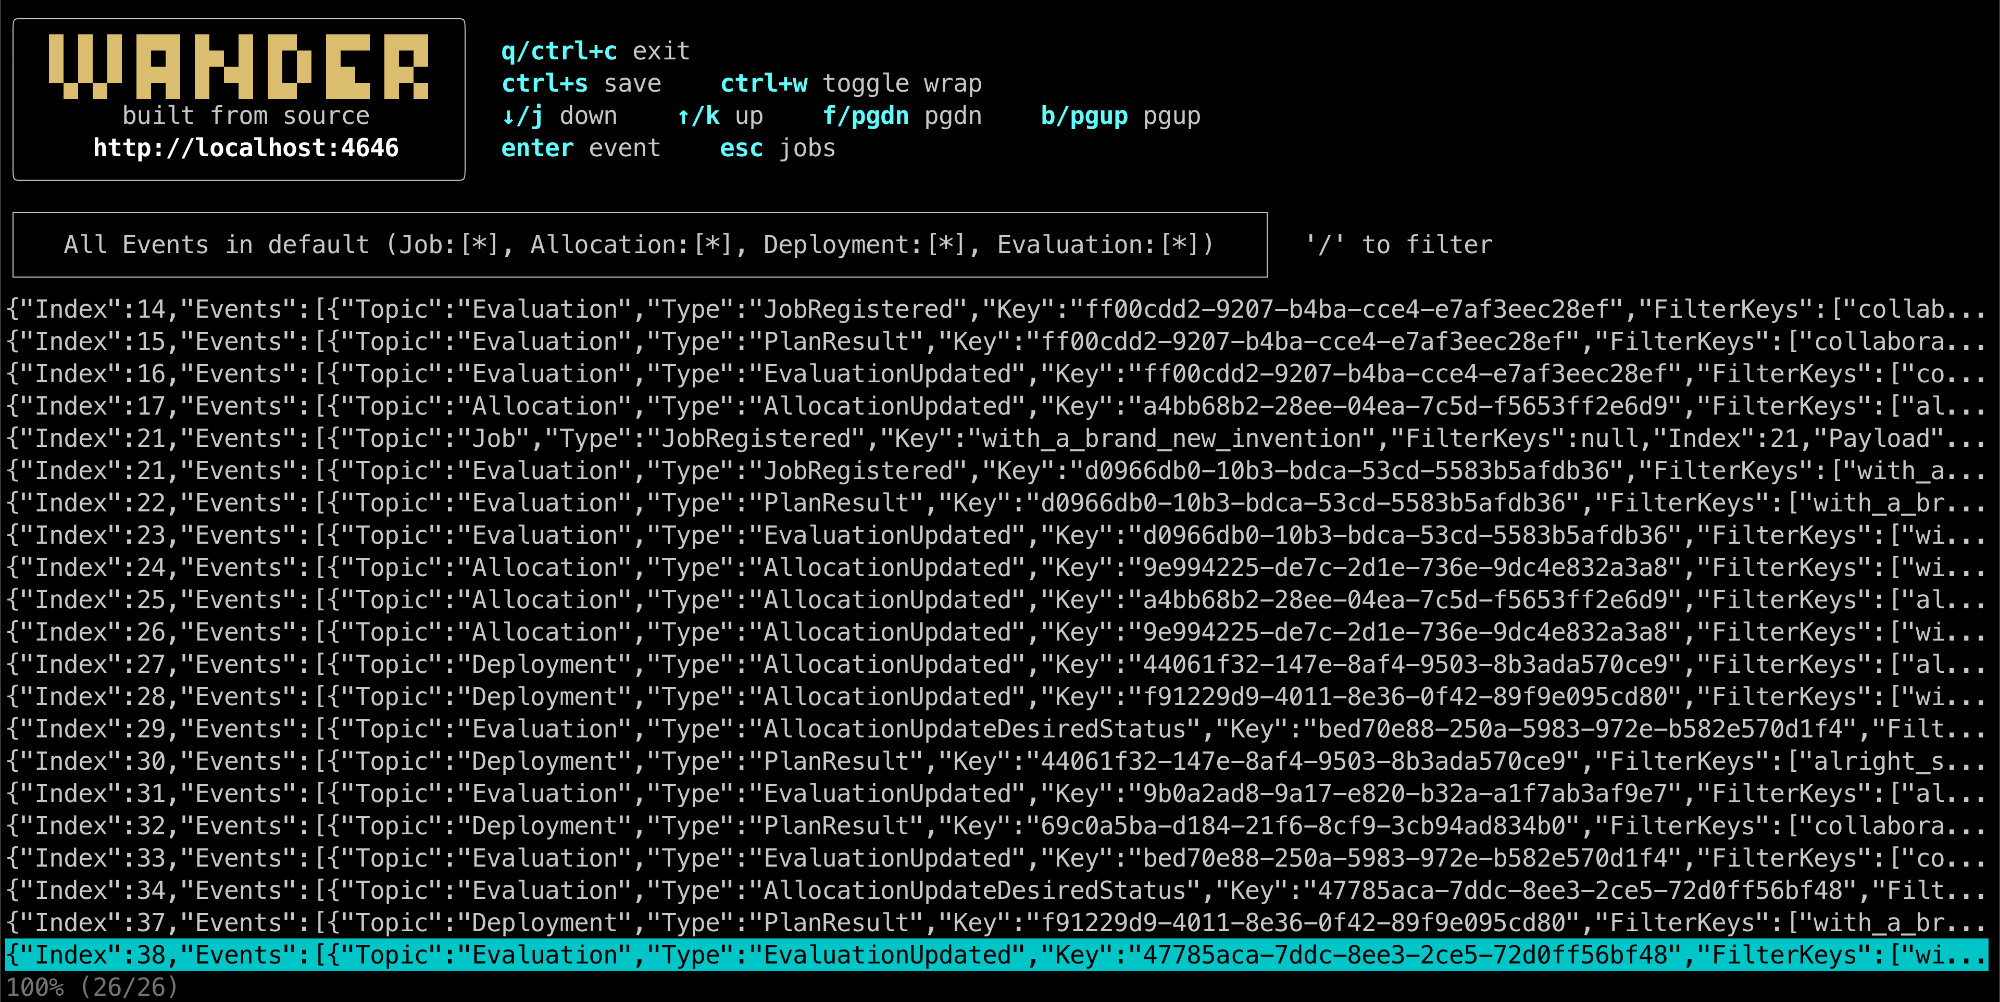
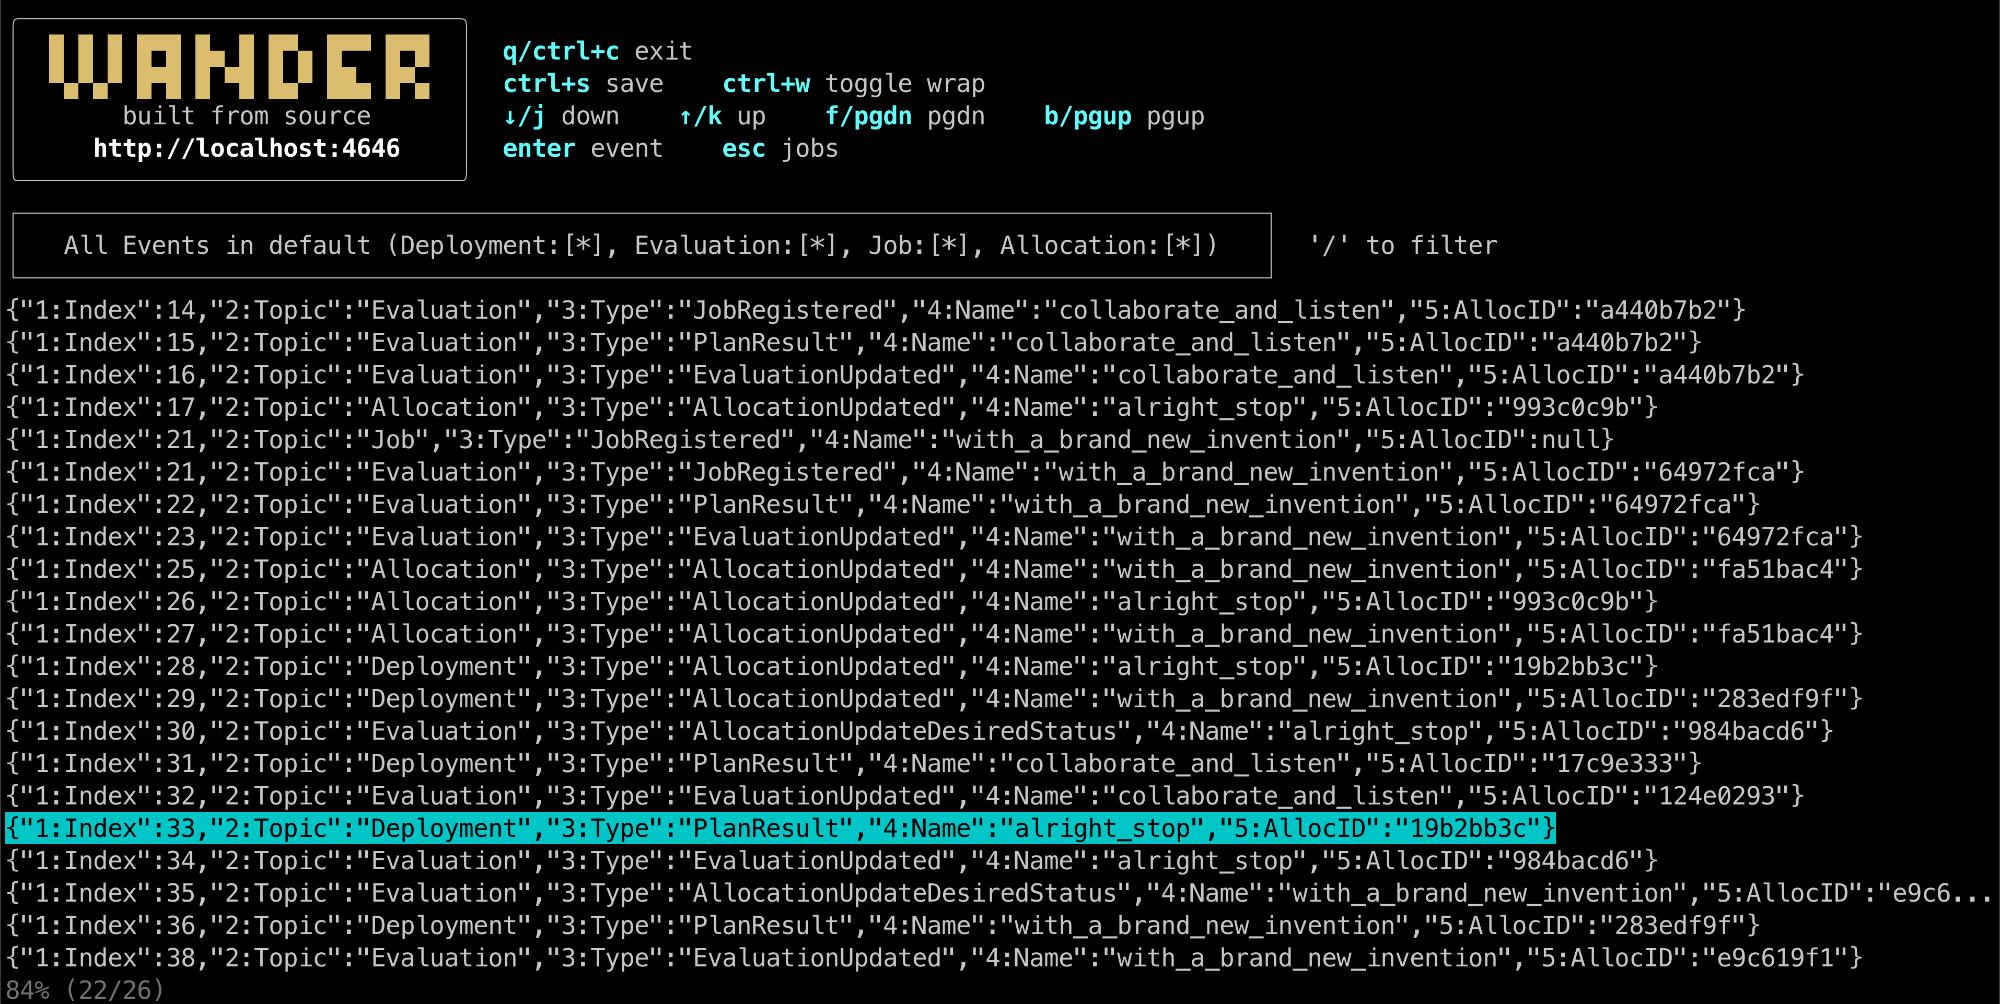
Update README

diff --git a/README.md b/README.md
@@ -11,18 +11,25 @@ An efficient terminal application/TUI for your [HashiCorp Nomad](https://www.nom
 
 - Browse jobs, allocations, tasks, and logs
 - Exec to run commands in running tasks
-- Tail global or targeted events
+- Tail global or targeted events using a jq query
 - Save any view as a local file
 - See full specs
 
 <div align="center">
+   <em>View jobs</em>
    <img src="./img/jobs.png" width="100%"/>
-   <img src="./img/allocations.png" width="49%"/>
-   <img src="./img/logs.png" width="49%"/>
-   <img src="./img/exec.png" width="49%"/>
-   <img src="./img/events.png" width="49%"/>
-   <img src="./img/save.png" width="49%"/>
-   <img src="./img/spec.png" width="49%"/>
+   <em>View allocations</em>
+   <img src="./img/allocations.png" width="100%"/>
+   <em>View logs</em>
+   <img src="./img/logs.png" width="100%"/>
+   <em>Exec into running tasks</em>
+   <img src="./img/exec.png" width="100%"/>
+   <em>Tail events</em>
+   <img src="./img/events.png" width="100%"/>
+   <em>Save any content to a local file</em>
+   <img src="./img/save.png" width="100%"/>
+   <em>View full job and allocation specs</em>
+   <img src="./img/spec.png" width="100%"/>
 </div>
 &nbsp;
 
@@ -71,57 +78,57 @@ Run the app by running `wander` in a terminal. See `wander --help` and config se
 
 Priority in order of highest to lowest is command line arguments, then environment variables, then the config file.
 
-Example yaml file showing all options:
+Example yaml file showing all options (uncomment an option to enable it):
 
 ```shell
 # Nomad address. Default "http://localhost:4646"
-nomad_addr: http://localhost:4646
+#nomad_addr: http://localhost:4646
 
 # Nomad token. Default ""
-nomad_token: my-token
+#nomad_token: my-token
 
 # Nomad region. Default ""
-nomad_region: west
+#nomad_region: west
 
 # Nomad namespace. Default "*"
-nomad_namespace: "my-namespace"
+#nomad_namespace: "my-namespace"
 
 # Nomad http auth, in the form of "user" or "user:pass". Default ""
-nomad_http_auth: "username:password"
+#nomad_http_auth: "username:password"
 
 # Path to a PEM encoded CA cert file to use to verify the Nomad server SSL certificate. Default ""
-nomad_cacert: "/path/to/cert"
+#nomad_cacert: "/path/to/cert"
 
 # Path to a directory of PEM encoded CA cert files to verify the Nomad server SSL certificate. If both cacert and capath are specified, cacert is used. Default ""
-nomad_capath: "/path/to/cert/directory"
+#nomad_capath: "/path/to/cert/directory"
 
 # Path to a PEM encoded client cert for TLS authentication to the Nomad server. Must also specify client key. Default ""
-nomad_client_cert: "/path/to/cert"
+#nomad_client_cert: "/path/to/cert"
 
 # Path to an unencrypted PEM encoded private key matching the client cert. Default ""
-nomad_client_key: "/path/to/key"
+#nomad_client_key: "/path/to/key"
 
 # The server name to use as the SNI host when connecting via TLS. Default ""
-nomad_tls_server_name: server-name
+#nomad_tls_server_name: server-name
 
 # If "true", do not verify TLS certificates. Default "false"
-nomad_skip_verify: true
+#nomad_skip_verify: true
 
 # Seconds between updates for job & allocation pages. Disable with "-1". Default "2"
-wander_update_seconds: 1
+#wander_update_seconds: 1
 
 # Log byte offset from which logs start. Default "1000000"
-wander_log_offset: 1000000
+#wander_log_offset: 1000000
 
 # If "true", copy the full path to file after save. Default "false"
-wander_copy_save_path: true
+#wander_copy_save_path: true
 
 # Topics to follow in event streams, comma-separated. Default "Job,Allocation,Deployment,Evaluation"
 # see https://www.nomadproject.io/api-docs/events#event-stream
-wander_event_topics: Job:my-job,Job:my-other-job,Allocation:my-job,Evaluation,Deployment:*
+#wander_event_topics: Job:my-job,Job:my-other-job,Allocation:my-job,Evaluation,Deployment:*
 
 # Namespace used in stream for all events. "*" for all namespaces. Default "default"
-wander_event_namespace: "*" # * needs surrounding "" in yaml
+#wander_event_namespace: "*" # * needs surrounding "" in yaml
 
 # jq (https://stedolan.github.io/jq/) query used for parsing events. "." to show entire event JSON. Default is:
 # wander_event_jq_query: >
@@ -133,27 +140,27 @@ wander_event_namespace: "*" # * needs surrounding "" in yaml
 #      "5:AllocID": .Payload | (.Allocation // .Deployment // .Evaluation).ID[:8]
 #   }
 # The numbering exists to preserve ordering, as https://github.com/itchyny/gojq does not keep the order of object keys
-wander_event_jq_query: .
+#wander_event_jq_query: .
 
 # For `wander serve`. Hostname of the machine hosting the ssh server. Default "localhost"
-wander_host: localhost
+#wander_host: localhost
 
 # For `wander serve`. Port for the ssh server. Default "21324"
-wander_port: 21324
+#wander_port: 21324
 
 # For `wander serve`. Host key path for wander ssh server. Default none, i.e. ""
-wander_host_key_path: .ssh/term_info_ed25519
+#wander_host_key_path: .ssh/term_info_ed25519
 
 # For `wander serve`. Host key PEM block for wander ssh server. Default none, i.e. ""
-wander_host_key_pem: |
-    -----BEGIN OPENSSH PRIVATE KEY-----
[1 lines of base64/hex data omitted]
-    ...
-    XBMuWaiQMCZjAwAAAAp3YW5kZXItc3NoAQIEBAUGBw==
-    -----END OPENSSH PRIVATE KEY-----
+#wander_host_key_pem: |
+#    -----BEGIN OPENSSH PRIVATE KEY-----
+#    b3BlbnNzaD1rZXktdjEAAAAABG5vbmUAAAAEbm9uZQAAAAAAAAABAAACFwAAAAdzc2gtcm
+#    ...
+#    XBMuWaiQMCZjAwAAAAp3YW5kZXItc3NoAQIEBAUGBw==
+#    -----END OPENSSH PRIVATE KEY-----
 
 # Custom colors
-wander_logo_color: "#DBBD70"
+#wander_logo_color: "#DBBD70"
 ```
 
 ## SSH App
